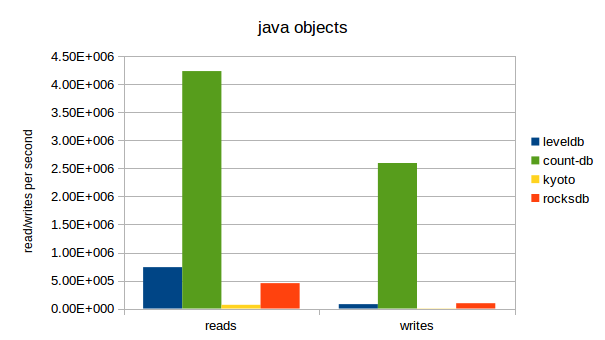
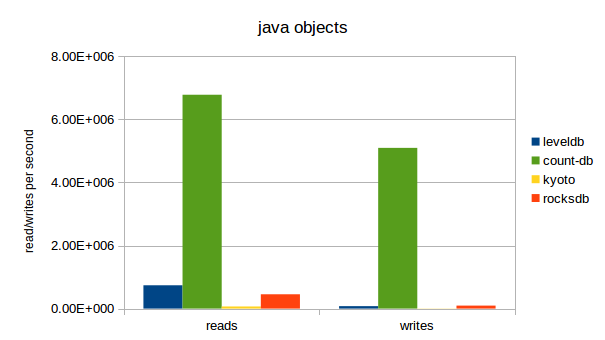
Updated documentation with latest performance figures

diff --git a/doc/performance.md b/doc/performance.md
@@ -17,15 +17,15 @@ The first test in [BigramTestsMain.java](https://github.com/koendeschacht/count-
 
 | million items | levelDB   | count-db  | kyoto cabinet | rocksDB   |
 |---------------|-----------|-----------|---------------|-----------|
-| 1             | 1.82E+005 | 1.75E+006 | 1.53E+006     | 1.13E+005 |
-| 2             | 1.49E+005 | 3.77E+006 | 1.76E+006     | 1.15E+005 |
-| 4             | 1.84E+005 | 5.30E+006 | 1.73E+006     | 1.18E+005 |
-| 8             | 1.68E+005 | 5.74E+006 | 1.69E+006     | 1.23E+005 |
-| 16            | 1.60E+005 | 4.60E+006 | 1.23E+005     | 1.29E+005 |
-| 32            | 1.50E+005 | 5.54E+006 | 4.20E+004     | 1.35E+005 |
-| 64            | 1.42E+005 | 5.62E+006 | 2.77E+004     | 1.38E+005 |
-| 128           | 1.37E+005 | 6.02E+006 | 2.68E+004     | 1.38E+005 |
-| 256           | 1.37E+005 | 6.26E+006 |               | 1.40E+005 |
+| 1             | 1.82E+005 | 3.53E+006 | 1.53E+006     | 1.13E+005 |
+| 2             | 1.49E+005 | 6.92E+006 | 1.76E+006     | 1.15E+005 |
+| 4             | 1.84E+005 | 9.89E+006 | 1.73E+006     | 1.18E+005 |
+| 8             | 1.68E+005 | 9.10E+006 | 1.69E+006     | 1.23E+005 |
+| 16            | 1.60E+005 | 1.23E+007 | 1.23E+005     | 1.29E+005 |
+| 32            | 1.50E+005 | 8.93E+006 | 4.20E+004     | 1.35E+005 |
+| 64            | 1.42E+005 | 7.93E+006 | 2.77E+004     | 1.38E+005 |
+| 128           | 1.37E+005 | 9.02E+006 | 2.68E+004     | 1.38E+005 |
+| 256           | 1.37E+005 | 1.12E+007 |               | 1.40E+005 |
 
 ### Reading
 
@@ -33,15 +33,15 @@ The first test in [BigramTestsMain.java](https://github.com/koendeschacht/count-
 
 | million items | levelDB   | count-db  | kyoto cabinet | rocksDB   |
 |---------------|-----------|-----------|---------------|-----------|
-| 1             | 1.29E+006 | 4.19E+006 | 2.13E+006     | 7.24E+005 |
-| 2             | 1.11E+006 | 1.08E+007 | 2.07E+006     | 7.55E+005 |
-| 4             | 1.04E+006 | 1.09E+007 | 1.99E+006     | 6.48E+005 |
-| 8             | 9.73E+005 | 1.24E+007 | 1.95E+006     | 5.31E+005 |
-| 16            | 9.31E+005 | 1.24E+007 | 8.21E+004     | 5.85E+005 |
-| 32            | 9.02E+005 | 1.22E+007 | 5.02E+004     | 6.18E+005 |
-| 64            | 9.18E+005 | 1.16E+007 | 5.09E+004     | 5.39E+005 |
-| 128           | 9.60E+005 | 1.23E+007 | 5.11E+004     | 5.18E+005 |
-| 256           | 8.90E+005 | 1.12E+007 |               | 4.93E+005 |
+| 1             | 1.29E+006 | 5.05E+006 | 2.13E+006     | 7.24E+005 |
+| 2             | 1.11E+006 | 7.94E+006 | 2.07E+006     | 7.55E+005 |
+| 4             | 1.04E+006 | 1.08E+007 | 1.99E+006     | 6.48E+005 |
+| 8             | 9.73E+005 | 1.06E+007 | 1.95E+006     | 5.31E+005 |
+| 16            | 9.31E+005 | 1.09E+007 | 8.21E+004     | 5.85E+005 |
+| 32            | 9.02E+005 | 1.32E+007 | 5.02E+004     | 6.18E+005 |
+| 64            | 9.18E+005 | 1.27E+007 | 5.09E+004     | 5.39E+005 |
+| 128           | 9.60E+005 | 1.33E+007 | 5.11E+004     | 5.18E+005 |
+| 256           | 8.90E+005 | 1.06E+007 |               | 4.93E+005 |
 
 Note that the test that writes and reads 256M of counts was not finished for kyoto cabinet because it took too long.
 
@@ -53,8 +53,8 @@ The second test in [BigramTestsMain.java](https://github.com/koendeschacht/count
 
 | action | levelDB   | count-db  | rocksDB   |
 |--------|-----------|-----------|-----------|
-| read   | 2.02E+005 | 2.27E+006 | 2.40E+005 |
-| write  | 1.24E+005 | 2.10E+006 | 1.03E+005 |
+| read   | 2.02E+005 | 1.75E+006 | 2.40E+005 |
+| write  | 1.24E+005 | 1.74E+006 | 1.03E+005 |
 
 
 The tests for for kyoto cabinet are not included because these took too long to finish.
@@ -67,8 +67,8 @@ The third test in [BigramTestsMain.java](https://github.com/koendeschacht/count-
 
 | action | levelDB   | count-db  | kyoto cabinet | rocksDB   |
 |--------|-----------|-----------|---------------|-----------|
-| read   | 7.39E+005 | 4.24E+006 | 6.61E+004     | 4.53E+005 |
-| write  | 7.88E+004 | 2.60E+006 | 5.08E+003     | 9.55E+004 |
+| read   | 7.39E+005 | 6.78E+006 | 6.61E+004     | 4.53E+005 |
+| write  | 7.88E+004 | 5.10E+006 | 5.08E+003     | 9.55E+004 |
 
 
 ## Reading and writing uniform counts
@@ -79,5 +79,5 @@ The three previous tests all use bigram counts. This data follows a [power law](
 
 | action | levelDB   | count-db  | kyoto cabinet | rocksDB   |
 |--------|-----------|-----------|---------------|-----------|
-| read   | 8.32E+005 | 2.21E+007 | 1.93E+006     | 6.29E+005 |
-| write  | 1.56E+005 | 1.93E+007 | 2.01E+006     | 1.07E+005 |
+| read   | 8.32E+005 | 2.29E+007 | 1.93E+006     | 6.29E+005 |
+| write  | 1.56E+005 | 1.48E+007 | 2.01E+006     | 1.07E+005 |

diff --git a/README.md b/README.md
@@ -9,7 +9,7 @@ You want to use count-db if you need to write and read billions of counts very e
 
 ## Performance
 
-We compared the performance of count-db to 3 other key-value stores: [levelDB](https://github.com/google/leveldb), [kyoto cabinet](http://fallabs.com/kyotocabinet/) and [rocksDB](http://rocksdb.org/).  count-db outperforms all three, it is for example 45 times faster than levelDB when writing 256M bigram counts and 12 times faster than levelDB when reading from these counts. 
+We compared the performance of count-db to 3 other key-value stores: [levelDB](https://github.com/google/leveldb), [kyoto cabinet](http://fallabs.com/kyotocabinet/) and [rocksDB](http://rocksdb.org/).  count-db outperforms all three, it is for example 80 times faster than levelDB when writing 256M bigram counts and 11 times faster than levelDB when reading from these counts.
 
 ![](https://raw.githubusercontent.com/koendeschacht/count-db/master/doc/write_bigram_counts.png)
 
@@ -38,7 +38,7 @@ DataInterfaceFactory dataInterfaceFactory = new EmbeddedDBContextFactory("/tmp/m
 
 //create data interfaces
 DataInterface<Long> myLogDataInterface = dataInterfaceFactory.createCountDataInterface("myLoginCounts");
-DataInterface<UserObject> myUserDataInterface = dataInterfaceFactory.createDataInterface(DatabaseCachingType.CACHED, "myUsers", UserObject.class, new OverWriteCombinator<UserObject>());
+DataInterface<UserObject> myUserDataInterface = dataInterfaceFactory.createDataInterface("myUsers", UserObject.class, new OverWriteCombinator<>());
 
 //write data
 long userId = 12939;
@@ -52,7 +52,7 @@ myUserDataInterface.flush();
 //read data
 long numOfLogins = myLogDataInterface.readCount("user_" + userId + "_logged_in");
 UserObject user = myUserDataInterface.read(userId);
-System.out.println("User " + user.getFirstName() + " " + user.getSecondName() + " logged in " + numOfLogins + " times.");
+System.out.println("User " + user.getFirstName() + " " + user.getLastName() + " logged in " + numOfLogins + " times.");
 
 //iterate over all data
 CloseableIterator<KeyValue<UserObject>> iterator = myUserDataInterface.iterator();
@@ -60,7 +60,7 @@ while (iterator.hasNext()) {
     KeyValue<UserObject> curr = iterator.next();
     UserObject currUser = curr.getValue();
     long currUserId = curr.getKey();
-    System.out.println("User " + currUser.getFirstName() + " " + currUser.getSecondName() + " with id " + currUserId);
+    System.out.println("User " + currUser.getFirstName() + " " + currUser.getLastName() + " with id " + currUserId);
 }
 iterator.close();
 
